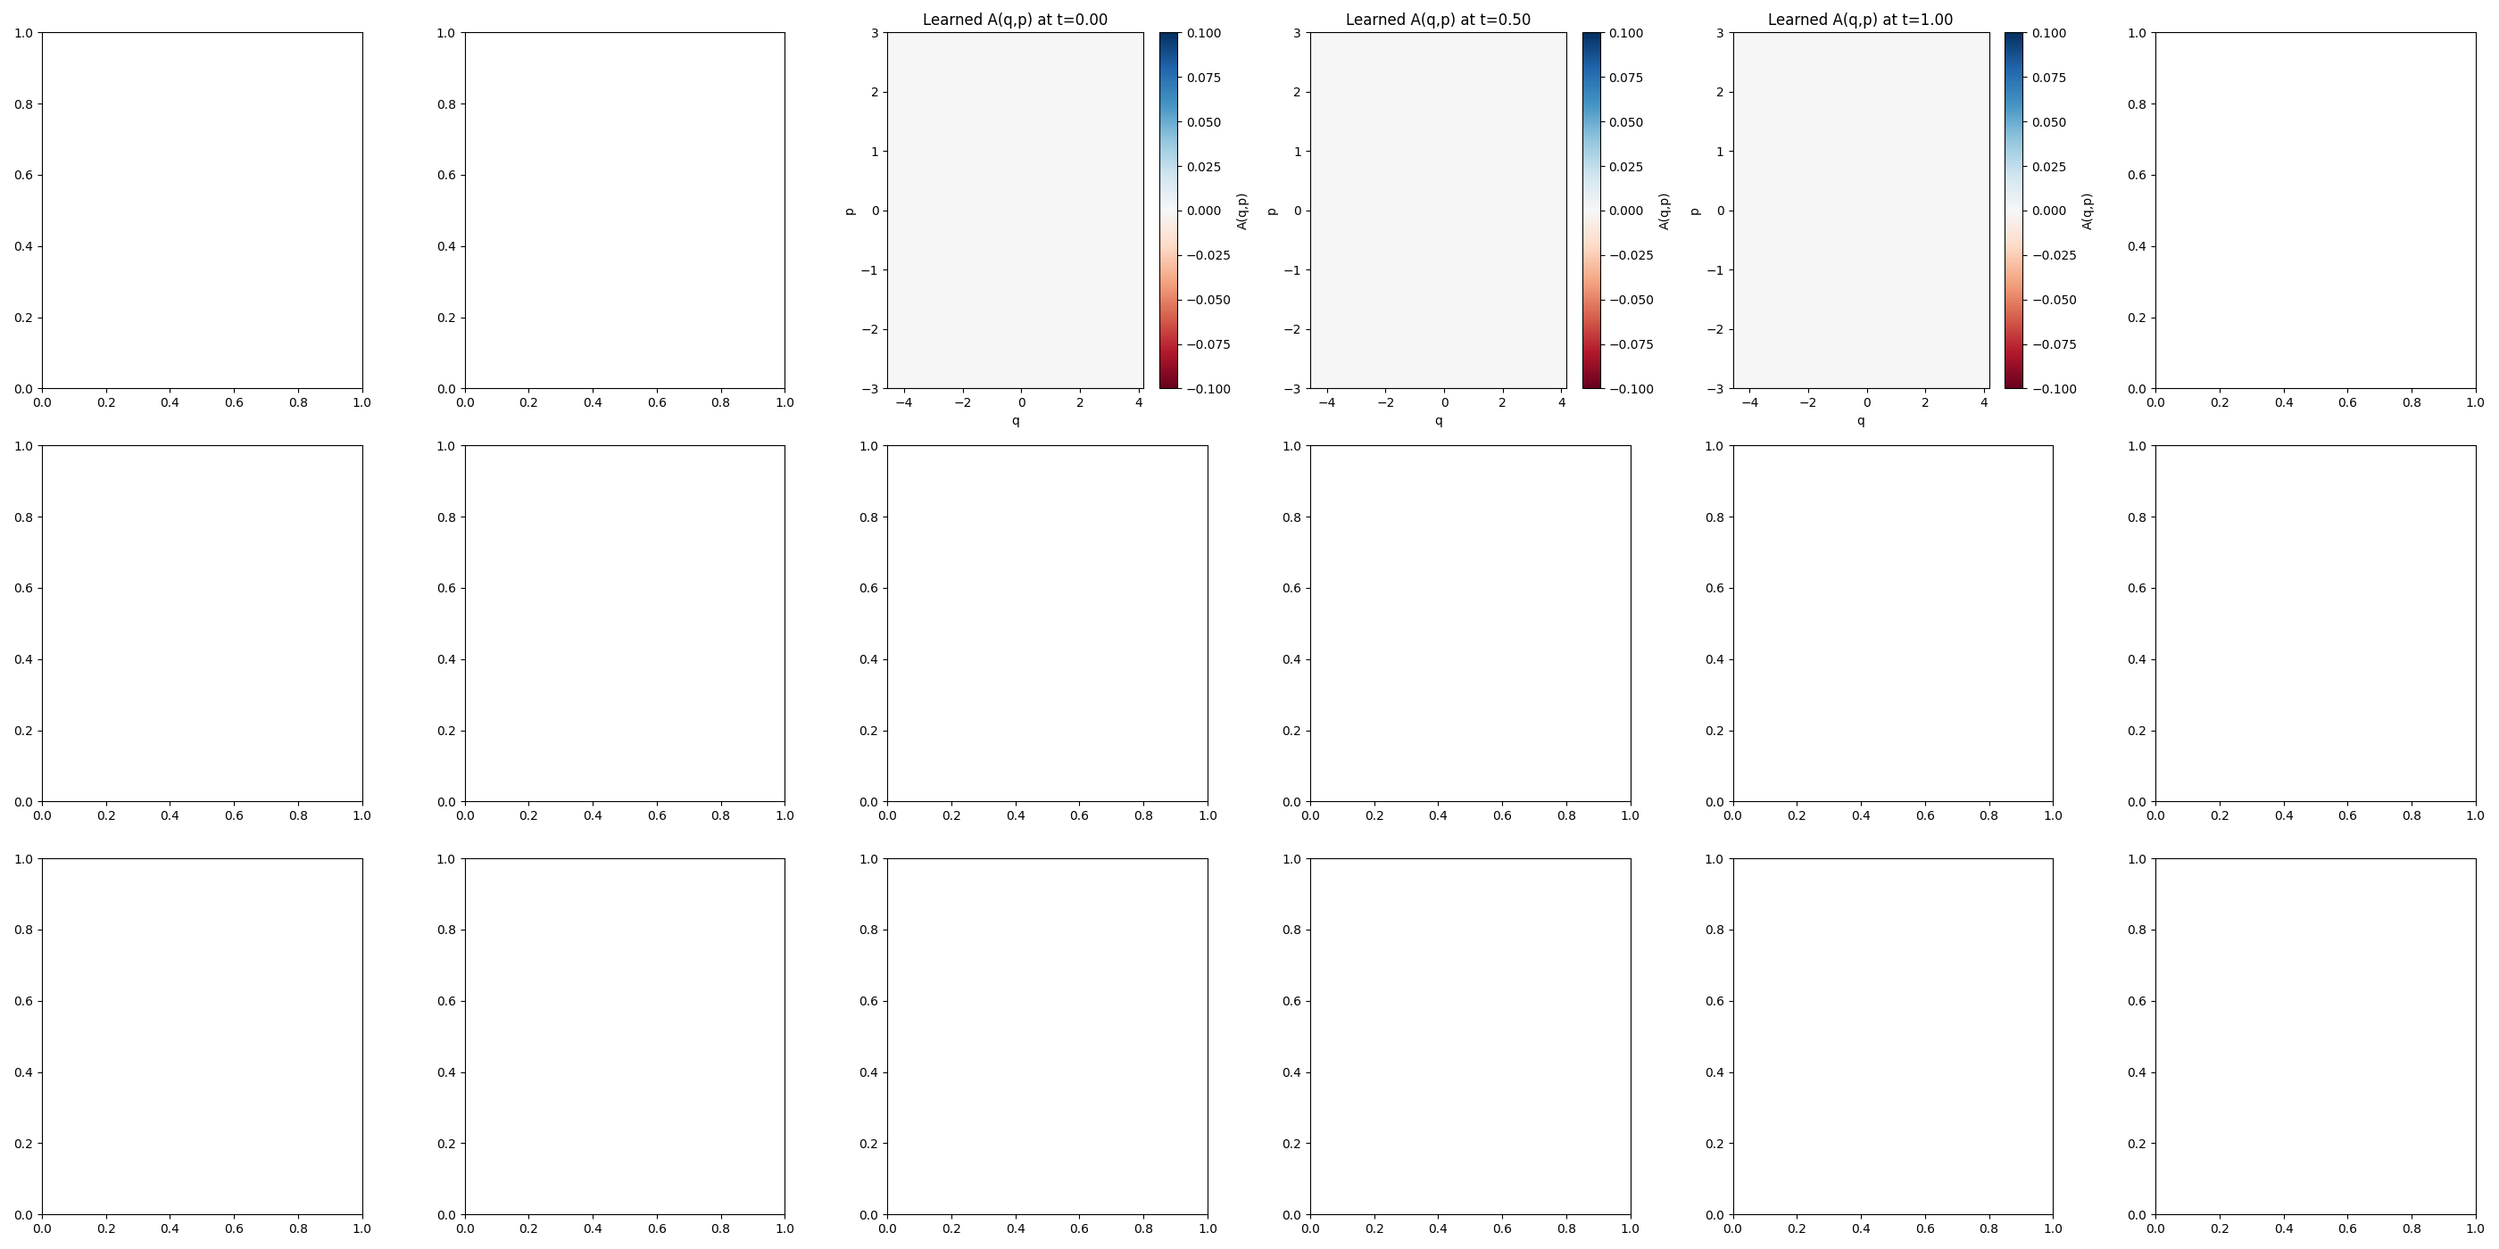
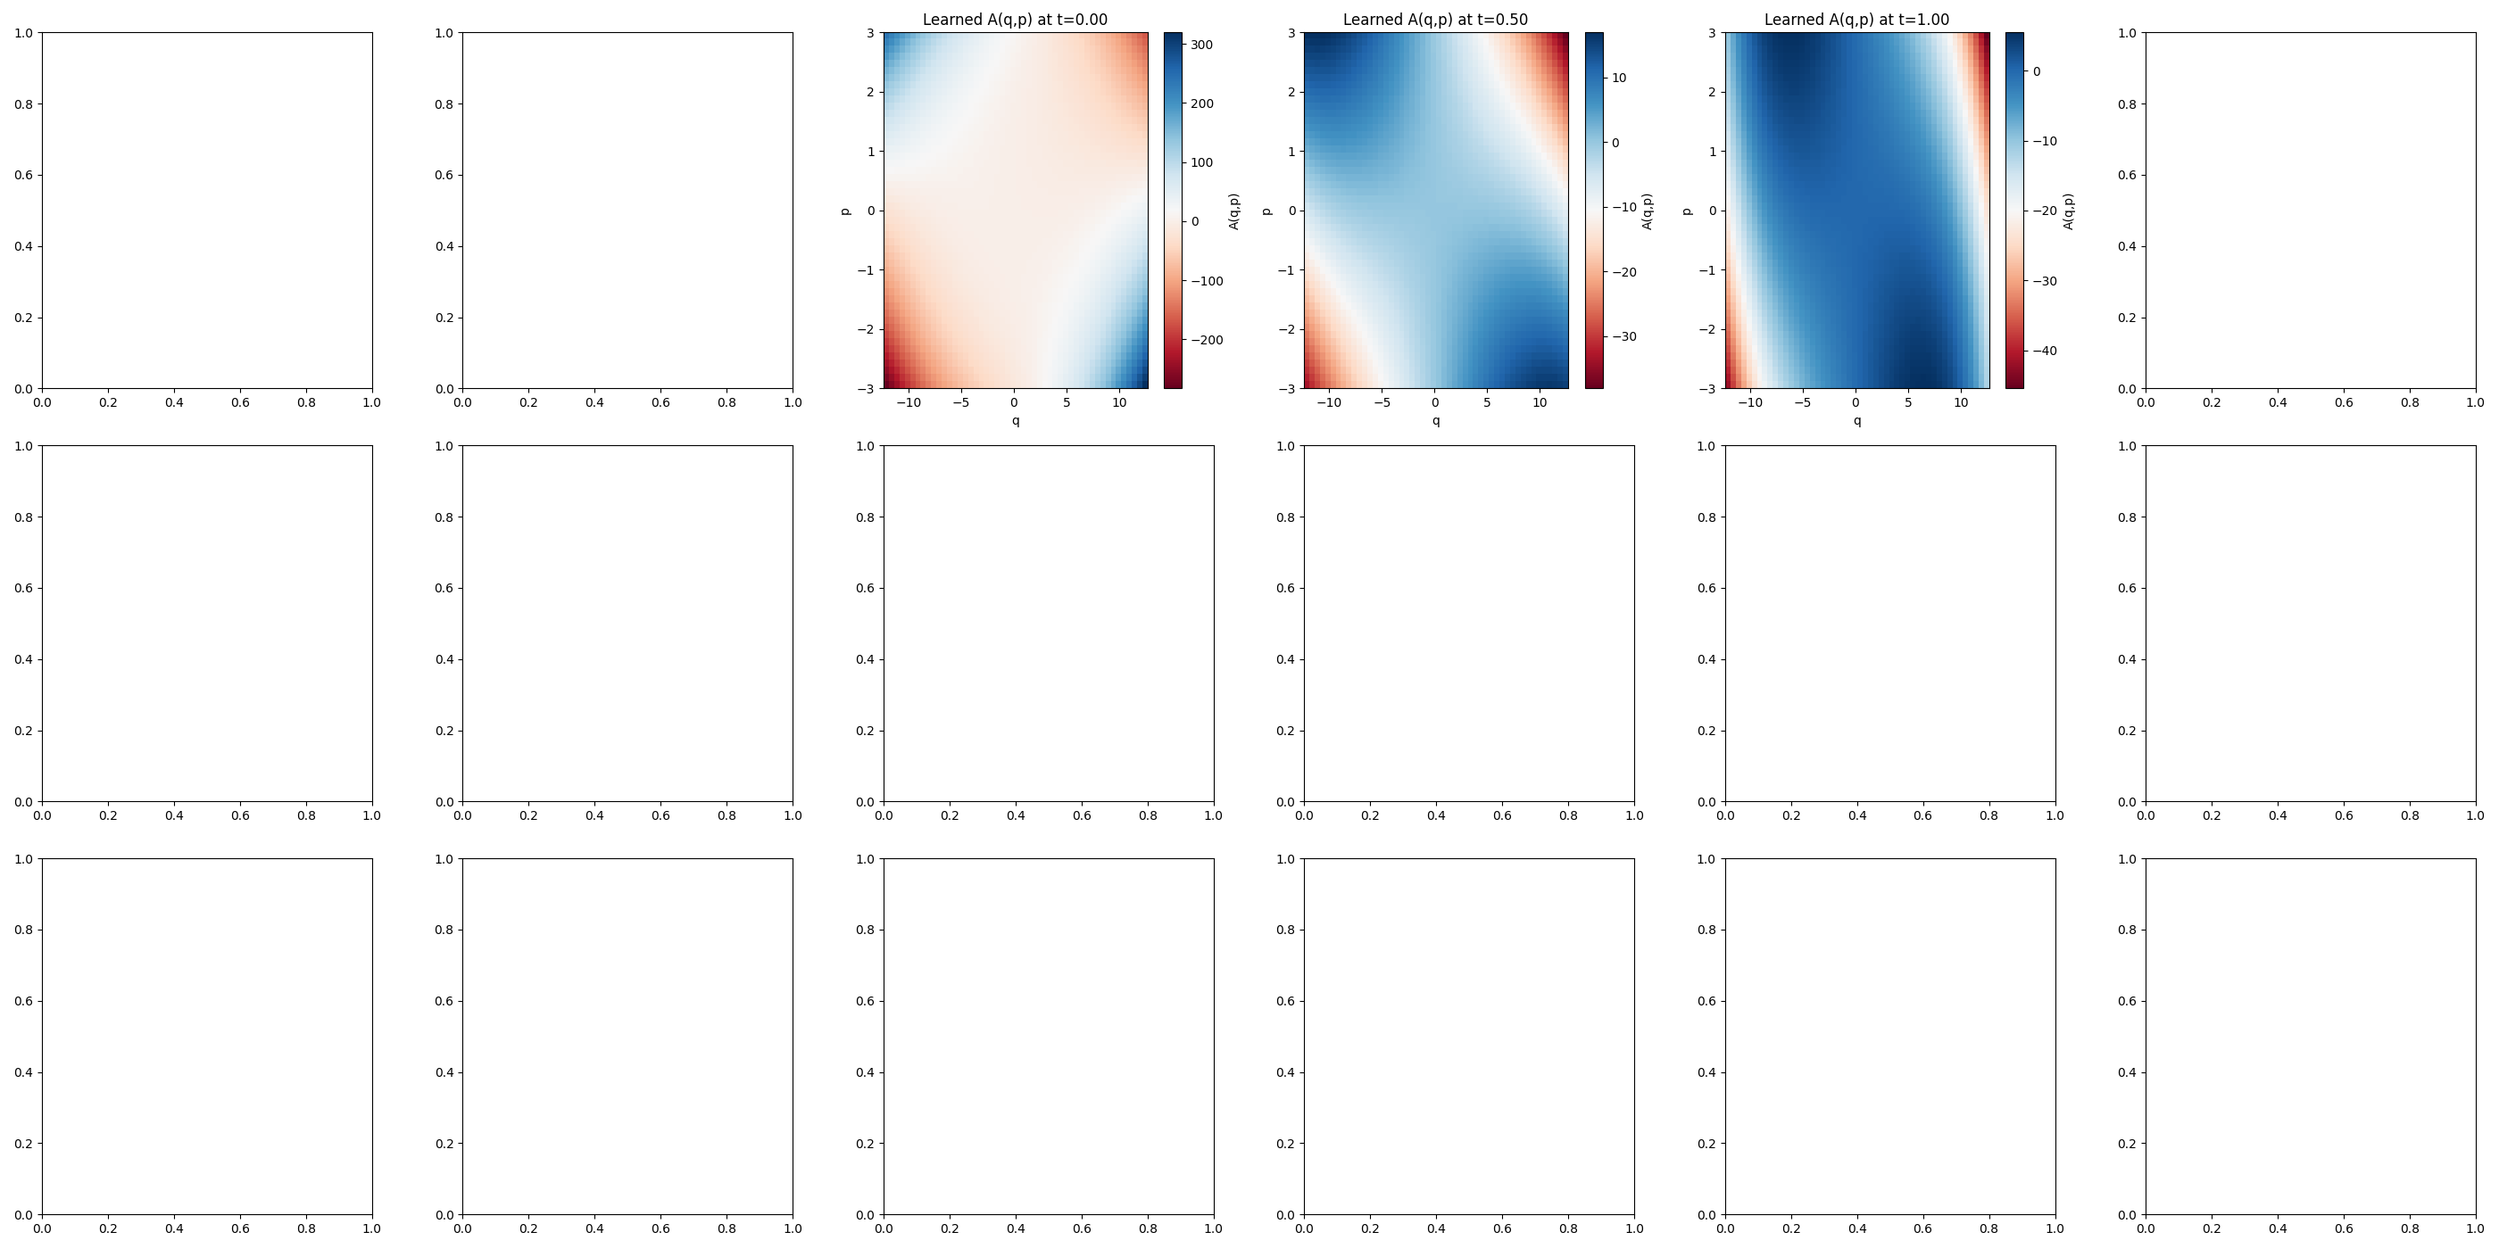
backup

Changed region(s): [[0.3418, 0.0, 0.8389, 0.3379]]

diff --git a/counterdiabatic_hmc.py b/counterdiabatic_hmc.py
@@ -26,43 +26,45 @@ def poisson_bracket_fn(f, g):
 # =============================================================================
 #  FIT FUNCTION USING GENERAL POISSON BRACKET
 # =============================================================================
-def fit_gauge_potential(lam, samples, init_params, make_T, make_V, A_ansatz, num_iters=200, lr=0.01):
+def fit_gauge_potential(lam, samples, make_T, make_V, A_ansatz, num_iters=200, lr=0.01):
     """
     Fit A(q,p; θ) by minimizing mean_{samples}[ ( {A,H} - ∂H/∂μ )^2 ].
     Returns both the optimized parameters and the loss history.
     """
+
+
     qp_batch = jnp.array(samples)  # shape (N,2)
-    params = init_params
+    # params = init_params
 
     H = lambda lam: lambda q, p: make_T(lam)(p) + make_V(lam)(q)
     H_fixed = H(lam)
     dH_fixed = lambda q, p: (jax.grad(lambda q, p, lam: H(lam)(q, p), argnums=2)(q, p, lam))
 
-    def R(params, q, p):
-        return poisson_bracket_fn(A_ansatz(params), H_fixed)(q, p) - dH_fixed(q, p)
+    def R(A_ansatz, q, p):
+        return poisson_bracket_fn(A_ansatz, H_fixed)(q, p) - dH_fixed(q, p)
 
-    def loss_fn(params, qp_batch):
+    def loss_fn(A_ansatz, qp_batch):
         qs = qp_batch[:, 0]
         ps = qp_batch[:, 1]
-        R_vals = jax.vmap(lambda qr, pr, θ: R(θ, qr, pr), in_axes=(0, 0, None))(qs, ps, params)
+        R_vals = jax.vmap(lambda qr, pr, A_ansatz: R(A_ansatz, qr, pr), in_axes=(0, 0, None))(qs, ps, A_ansatz)
         return jnp.mean(R_vals ** 2)
 
     optimizer = optax.adam(lr)
-    opt_state = optimizer.init(eqx.filter(params, eqx.is_array))
+    opt_state = optimizer.init(eqx.filter(A_ansatz, eqx.is_array))
 
     @jax.jit
-    def update(params, opt_state, qp_batch):
-        loss, grads = jax.value_and_grad(loss_fn)(params, qp_batch)
+    def update(A_ansatz, opt_state, qp_batch):
+        loss, grads = jax.value_and_grad(loss_fn)(A_ansatz, qp_batch)
         updates, opt_state = optimizer.update(eqx.filter(grads, eqx.is_array), opt_state)
-        params = eqx.apply_updates(params, updates)
-        return params, opt_state, loss
+        A_ansatz = eqx.apply_updates(A_ansatz, updates)
+        return A_ansatz, opt_state, loss
 
     loss_history = []
     for _ in range(num_iters):
-        params, opt_state, loss = update(params, opt_state, qp_batch)
+        A_ansatz, opt_state, loss = update(A_ansatz, opt_state, qp_batch)
         loss_history.append(float(loss))
 
-    return params, loss_history
+    return A_ansatz, loss_history
 
 
 make_p_update = lambda V: lambda q, p, eps: p - eps * jax.grad(V)(q)
@@ -94,15 +96,15 @@ def make_leapfrog_step(T, V):
 # Create the step function and vectorized version for naive HMC
 
 
-def make_cd_leapfrog_step(T, V, A_ansatz, theta, lam, lam_next, dot_lam, dot_lam_next):
-    p_update = make_p_update(V)
-    x_update = make_x_update(T)
-    dA_dq_scalar = lambda θ: jax.grad(A_ansatz(θ), argnums=0)
-    dA_dp_scalar = lambda θ: jax.grad(A_ansatz(θ), argnums=1)
+def make_cd_leapfrog_step(T, V, A_ansatz, lam, lam_next, dot_lam, dot_lam_next):
+    # p_update = make_p_update(V)
+    # x_update = make_x_update(T)
+    dA_dq_scalar = jax.grad(A_ansatz, argnums=0)
+    dA_dp_scalar = jax.grad(A_ansatz, argnums=1)
     def cd_leapfrog(q, p, eps):
-        p_half = p - 0.5 * eps * (jax.grad(V)(q) + dot_lam * dA_dq_scalar(theta)(q, p))
-        q_new = q + eps * (jax.grad(T)(p_half) + dot_lam * dA_dp_scalar(theta)(q, p_half))
-        p_new = p_half - 0.5 * eps * (jax.grad(V)(q_new) + dot_lam * dA_dq_scalar(theta)(q_new, p_half))
+        p_half = p - 0.5 * eps * (jax.grad(V)(q) + dot_lam * dA_dq_scalar(q, p))
+        q_new = q + eps * (jax.grad(T)(p_half) + dot_lam * dA_dp_scalar(q, p_half))
+        p_new = p_half - 0.5 * eps * (jax.grad(V)(q_new) + dot_lam * dA_dq_scalar(q_new, p_half))
         return q_new, p_new
     return cd_leapfrog
 
@@ -132,8 +134,11 @@ def generate_initial_samples(M, make_T, make_V, lam, key, num_steps=5000, eps=0.
     
     return q, p
 
-def run_simulation(M, N_steps, delta_t, eps, momentum_refresh_interval, make_T, make_V, A_ansatz, lam_fn, dot_lam_fn, fit_gauge_potential, model):
-    key = jax.random.PRNGKey(0)
+def run_simulation(M, N_steps, delta_t, eps, momentum_refresh_interval, make_T, make_V, A_ansatz, lam_fn, dot_lam_fn, key):
+    # key = jax.random.PRNGKey(0)
+
+    # print(A_ansatz(model.params), "what?")
+    # raise Exception("stop")
     
     # Generate initial samples from the correct distribution
     initial_lam = float(lam_fn(0.0))
@@ -141,7 +146,7 @@ def run_simulation(M, N_steps, delta_t, eps, momentum_refresh_interval, make_T, 
     q_cd = q_naive.copy()
     p_cd = p_naive.copy()
 
-    theta = model
+    # theta = model
 
     loss_histories = []
     snapshots = {'naive': [], 'cd': [], 'lam': []}
@@ -153,28 +158,28 @@ def run_simulation(M, N_steps, delta_t, eps, momentum_refresh_interval, make_T, 
         dot_lam_k = float(dot_lam_fn(t_k))
 
 
-        # Re-fit A every 10 steps
-        if (k % 1 == 0) and (k < N_steps):
+        # Re-fit A every 1 steps
+        # print(A_ansatz(A.params), "what 1?")
+        if not isinstance(A_ansatz, AnalyticAnsatz) and (k % 1 == 0) and (k < N_steps):
             samples = np.stack([np.array(q_cd), np.array(p_cd)], axis=1)
-            theta, loss_history = fit_gauge_potential(lam_k, samples, init_params=theta,
+            A_ansatz, loss_history = fit_gauge_potential(lam_k, samples,
                                         make_T=make_T, make_V=make_V,
                                         A_ansatz=A_ansatz,
-                                        num_iters=5000, lr=1e-3)
-        
-            if k % 1 == 0:
-                loss_histories.append(loss_history)
+                                        num_iters=2000, lr=1e-3)
+            loss_histories.append(loss_history)
+
         # Record histograms every 10 steps
         if k % 10 == 0:
             snapshots['naive'].append(np.array(q_naive))
             snapshots['cd'].append(np.array(q_cd))
             snapshots['lam'].append(lam_k)
             # Record parameters
-            if isinstance(theta, PolynomialAnsatz):
-                theta_history.append(np.array(theta.params))
-            elif isinstance(theta, NeuralNetworkAnsatz):
+            if isinstance(A_ansatz, PolynomialAnsatz):
+                theta_history.append(np.array(A_ansatz.params))
+            elif isinstance(A_ansatz, NeuralNetworkAnsatz):
                 # Store just the parameters as a tuple of arrays
                 params = []
-                for layer in theta.layers:
+                for layer in A_ansatz.layers:
                     if isinstance(layer, eqx.nn.Linear):
                         params.append(np.array(layer.weight))
                         params.append(np.array(layer.bias))
@@ -204,17 +209,17 @@ def run_simulation(M, N_steps, delta_t, eps, momentum_refresh_interval, make_T, 
             print(f"Warning: NaNs detected in p_naive at step {k} (count: {jnp.isnan(p_naive).sum()})")
 
         # --- CD step ---
-        cd_step = jax.vmap(lambda q, p: make_cd_leapfrog_step(make_T(lam_k), make_V(lam_k), A_ansatz, theta, lam_k, lam_k1, dot_lam_k, dot_lam_k1)(q, p, eps))
+        cd_step = jax.vmap(lambda q, p: make_cd_leapfrog_step(make_T(lam_k), make_V(lam_k), A_ansatz, lam_k, lam_k1, dot_lam_k, dot_lam_k1)(q, p, eps))
         q_cd, p_cd = cd_step(q_cd, p_cd)
 
-    return theta, snapshots, loss_histories, theta_history
+    return A_ansatz, snapshots, loss_histories, theta_history
 
 def plot_learned_ansatz(ax, theta, ansatz, q_range=(-3, 3), p_range=(-3, 3), n_points=50):
     """Plot the learned ansatz function A(q,p) as a 2D surface.
     
     Args:
         ax: matplotlib axis to plot on
-        theta: parameters for the ansatz
+        theta: parameters for the ansatz. For analytic ansatz, this is None.
         ansatz: the ansatz object (either PolynomialAnsatz or NeuralNetworkAnsatz)
         q_range: tuple of (min_q, max_q)
         p_range: tuple of (min_p, max_p)
@@ -224,29 +229,29 @@ def plot_learned_ansatz(ax, theta, ansatz, q_range=(-3, 3), p_range=(-3, 3), n_p
     p = np.linspace(p_range[0], p_range[1], n_points)
     Q, P = np.meshgrid(q, p)
     
-    # # Update the ansatz with the saved parameters
-    # if ansatz.ansatz_type == 'polynomial':
-    #     # For polynomial, theta is the parameters directly
-    #     current_ansatz = PolynomialAnsatz(theta)
-    # elif ansatz.ansatz_type == 'neural':
-    #     # For neural network, create a new network with the saved parameters
-    #     key = jax.random.PRNGKey(0)
-    #     current_ansatz = NeuralNetworkAnsatz([2, 16, 16, 1], key)
-    #     # Update each layer's parameters using eqx.tree_at
-    #     param_idx = 0
-    #     for i, layer in enumerate(current_ansatz.layers):
-    #         if isinstance(layer, eqx.nn.Linear):
-    #             current_ansatz = eqx.tree_at(lambda x: x.layers[i].weight, current_ansatz, theta[param_idx])
-    #             current_ansatz = eqx.tree_at(lambda x: x.layers[i].bias, current_ansatz, theta[param_idx + 1])
-    #             param_idx += 2
-    # else:
-    #     raise ValueError(f"Unknown ansatz type: {ansatz.ansatz_type}")
-    
+    # Create an ansatz instance with the parameters for the current timestep
+    if isinstance(ansatz, PolynomialAnsatz):
+        # Create a new ansatz object and update its parameters
+        current_ansatz = eqx.tree_at(lambda m: m.params, ansatz, theta)
+    elif isinstance(ansatz, NeuralNetworkAnsatz):
+        # Create a new ansatz and update its parameters layer by layer
+        current_ansatz = ansatz
+        param_idx = 0
+        for i, layer in enumerate(ansatz.layers):
+            if isinstance(layer, eqx.nn.Linear):
+                current_ansatz = eqx.tree_at(lambda m: m.layers[i].weight, current_ansatz, theta[param_idx])
+                current_ansatz = eqx.tree_at(lambda m: m.layers[i].bias, current_ansatz, theta[param_idx + 1])
+                param_idx += 2
+    elif isinstance(ansatz, AnalyticAnsatz):
+        current_ansatz = ansatz  # No parameters to update
+    else:
+        raise ValueError(f"Unknown ansatz type: {ansatz.ansatz_type}")
+
     # Evaluate A(q,p) at each point
     A_values = np.zeros_like(Q)
     for i in range(n_points):
         for j in range(n_points):
-            A_values[i,j] = float(ansatz(Q[i,j], P[i,j]))
+            A_values[i,j] = float(current_ansatz(Q[i,j], P[i,j]))
     
     # Plot the surface
     im = ax.imshow(A_values, extent=[q_range[0], q_range[1], p_range[0], p_range[1]], 
@@ -255,7 +260,7 @@ def plot_learned_ansatz(ax, theta, ansatz, q_range=(-3, 3), p_range=(-3, 3), n_p
     ax.set_ylabel('p')
     plt.colorbar(im, ax=ax, label='A(q,p)')
 
-def plot_results(theta_history, snapshots, loss_histories, delta_t, make_V, lam_fn, param_history=None, ansatz=None, ansatz_type=None):
+def plot_results(snapshots, loss_histories, delta_t, make_V, lam_fn, param_history=None, ansatz=None):
     # Create two figures: one for distributions and one for the learned ansatz
     fig1, axes1 = plt.subplots(3, 6, figsize=(28, 14))
     fig2, axes2 = plt.subplots(3, 6, figsize=(28, 14))
@@ -272,7 +277,7 @@ def plot_results(theta_history, snapshots, loss_histories, delta_t, make_V, lam_
     axes1[0].legend()
 
     # Plot parameter history if available (only for polynomial ansatz)
-    if param_history is not None and len(param_history) > 0 and ansatz_type == 'polynomial':
+    if param_history is not None and len(param_history) > 0 and isinstance(ansatz, PolynomialAnsatz):
         param_times = np.arange(len(param_history)) * delta_t * 10
         axes1[1].set_title("Learned parameters over time")
         axes1[1].set_xlabel("t")
@@ -326,10 +331,23 @@ def plot_results(theta_history, snapshots, loss_histories, delta_t, make_V, lam_
 
         # Plot learned ansatz
         ax2 = axes2[plot_idx + 2]
-        if param_history is not None and snap_idx < len(param_history):
+        if isinstance(ansatz, AnalyticAnsatz):
+            plot_learned_ansatz(ax2, None, ansatz, q_range=(x_min, x_max), p_range=(-3, 3))
+            ax2.set_title(f"Analytic A(q,p) at t={snap_idx*10*delta_t:.2f}")
+
+        elif param_history is not None and snap_idx < len(param_history):
             theta = param_history[snap_idx]
             plot_learned_ansatz(ax2, theta, ansatz, q_range=(x_min, x_max), p_range=(-3, 3))
             ax2.set_title(f"Learned A(q,p) at t={snap_idx*10*delta_t:.2f}")
+
+    if isinstance(ansatz, PolynomialAnsatz):
+        ansatz_type = 'polynomial'
+    elif isinstance(ansatz, NeuralNetworkAnsatz):
+        ansatz_type = 'neural_network'
+    elif isinstance(ansatz, AnalyticAnsatz):
+        ansatz_type = 'analytic'
+    else:
+        raise ValueError(f"Unknown ansatz type")
 
     plt.figure(fig1.number)
     plt.tight_layout()
@@ -418,6 +436,21 @@ class NeuralNetworkAnsatz(A_ansatz):
         x = (self.layers[-1])(x)
         return x.squeeze()
 
+class AnalyticAnsatz(A_ansatz):
+    """An ansatz with a fixed analytical form from a screenshot."""
+    sigma: float
+    ansatz_type: str
+
+    def __init__(self, sigma=1.0):
+        self.sigma = sigma
+        self.ansatz_type = 'analytic'
+
+    def __call__(self, q, p):
+        # A(q, p) = - (sigma * p^2 + q^2 / sigma) / 2 * arctan(p * sigma / q)
+        # Use arctan2 to handle q=0 case
+        return p
+        # return - (self.sigma * p**2 + q**2 / self.sigma) / 2 * jnp.arctan2(p * self.sigma, q)
+
 def main():
 
     # todos
@@ -437,20 +470,23 @@ def main():
     def make_T(lam):
         return lambda p: 0.5 * (p ** 2) / m
     def make_V(lam):
-        return lambda q: (1-lam)*0.5*(q**2) + lam*(q**2 - 3)**2
+        # return lambda q: (1-lam)*0.5*(q**2) + lam*(q**2 - 3)**2
         # return lambda q: 0.5*((q-lam)**2 -1)**2
         # return lambda q: 0.5 * (q - lam) ** 2
-        # return lambda q: 0.5 * (lam + 0.1) * (q ** 2)
+        return lambda q: 0.5 * (lam + 0.1) * (q ** 2)
     
     # Initialize ansatz (either neural network or polynomial)
     key = jax.random.PRNGKey(0)
     # For neural network:
-    d = 1
+    # d = 1
     # ansatz = NeuralNetworkAnsatz([2*d, 128, 256, 128, d], key)
     # ansatz_type = 'neural_network'
     # For polynomial:
     ansatz = PolynomialAnsatz()
     ansatz_type = 'polynomial'
+    # For analytic solution:
+    # ansatz = AnalyticAnsatz(sigma=1.0)
+    # ansatz_type = 'analytic'
     
     # Print polynomial terms if using polynomial ansatz
     if ansatz_type == 'polynomial':
@@ -459,11 +495,20 @@ def main():
             print(f"  {desc}")
         print(f"Total number of parameters: {len(ansatz.params)}")
     
-    theta_history, snapshots, loss_histories, param_history = run_simulation(
-        M, N_steps, delta_t, eps, momentum_refresh_interval,
-        make_T, make_V, lambda x: x, lam_fn, dot_lam_fn, fit_gauge_potential, ansatz
+    A_ansatz, snapshots, loss_histories, param_history = run_simulation(
+        M=M, 
+        N_steps=N_steps, 
+        delta_t=delta_t, 
+        eps=eps, 
+        momentum_refresh_interval=momentum_refresh_interval,
+        make_T=make_T, 
+        make_V=make_V, 
+        lam_fn=lam_fn, 
+        dot_lam_fn=dot_lam_fn, 
+        A_ansatz=ansatz, 
+        key=key
     )
-    plot_results(theta_history, snapshots, loss_histories, delta_t, make_V, lam_fn, param_history, ansatz, ansatz_type)
+    plot_results(snapshots, loss_histories, delta_t, make_V, lam_fn, param_history, A_ansatz)
 
 if __name__ == '__main__':
     main()
